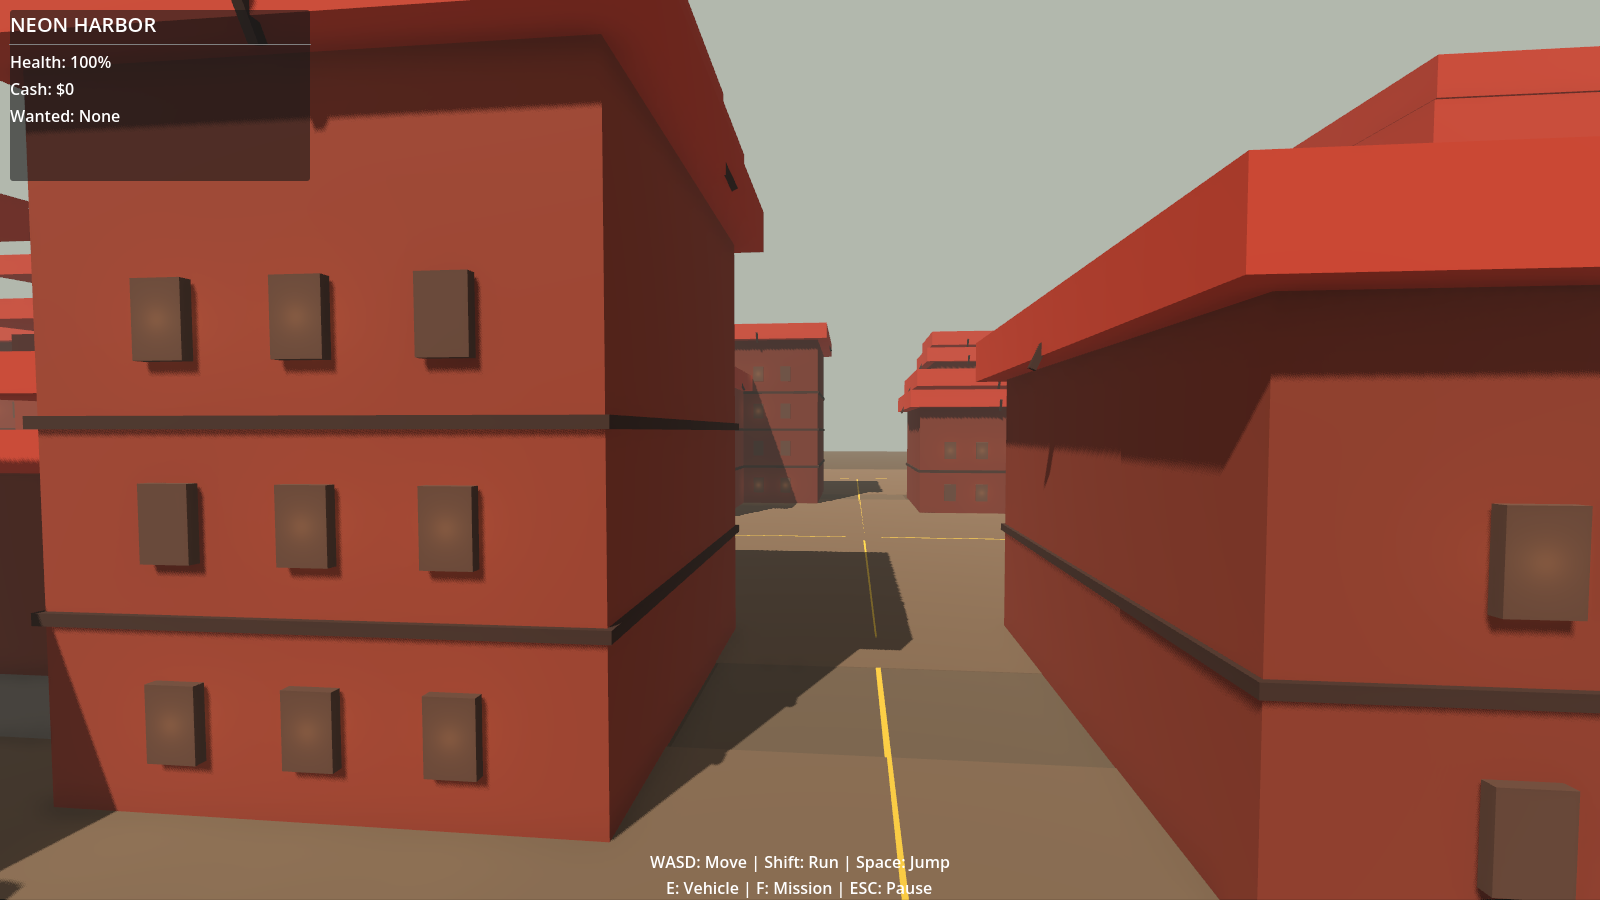
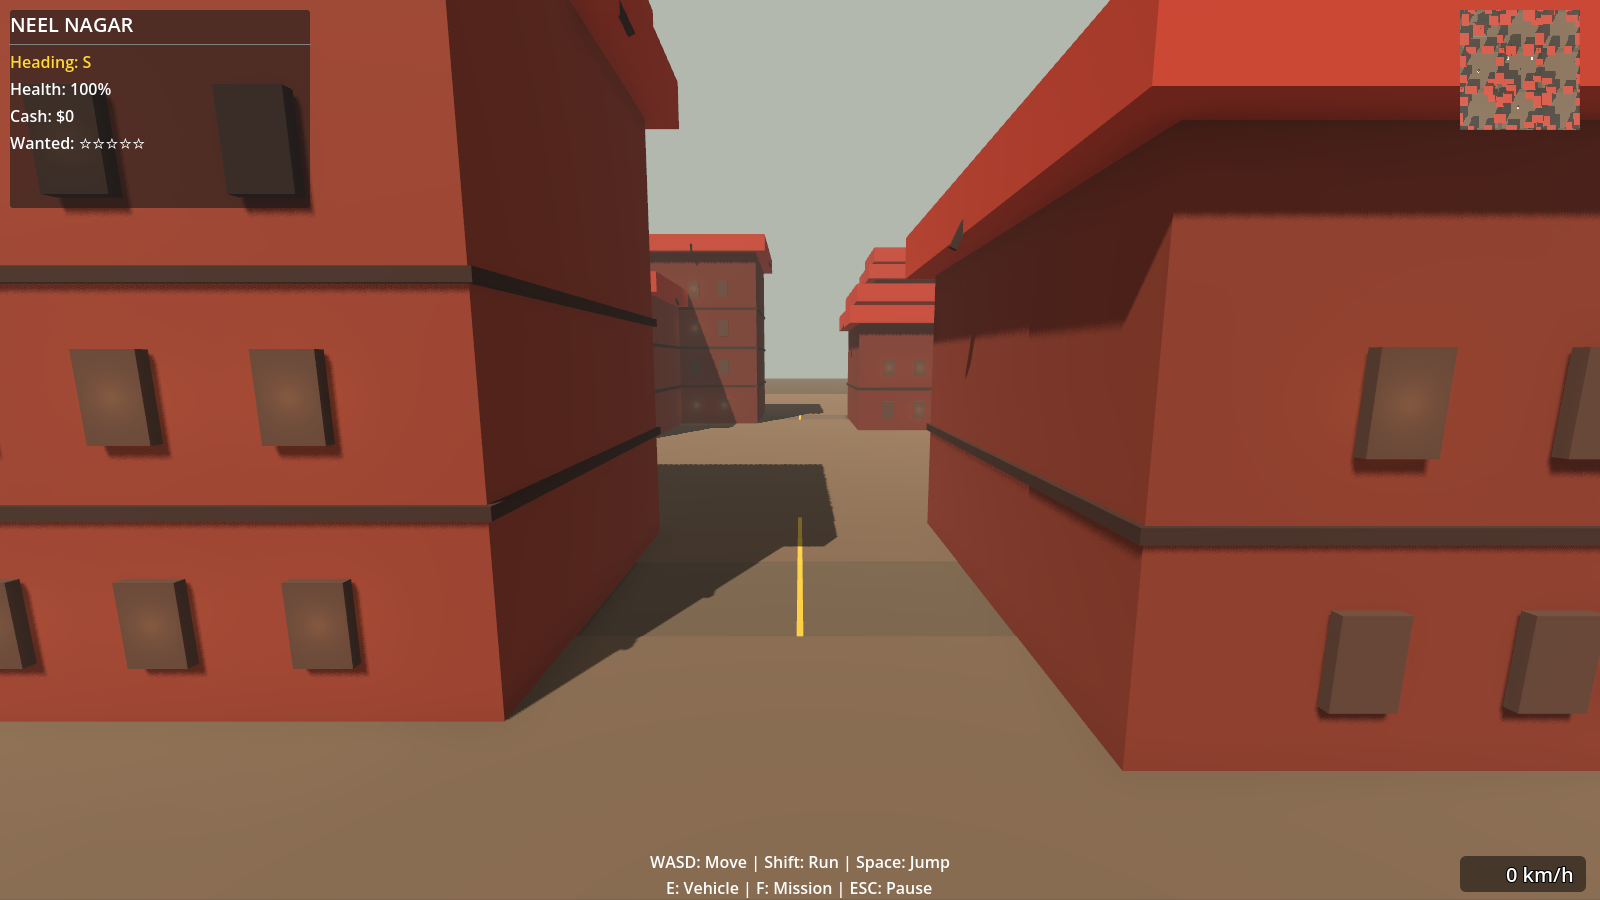
HUD polish: compass, speedometer, minimap, mission arrow
- Added compass heading readout in info panel
- Added speedometer (km/h) bottom-right, reads player/vehicle velocity
- Added top-down minimap SubViewport camera following the player
- Added mission objective arrow with live distance
- Wanted meter now shows 5-star format
- Enlarged info panel for the new rows
- QA hook saves to res://qa_shot.png via ProjectSettings path
- Renamed remaining NeonHarbor folder references in README

diff --git a/README.md b/README.md
@@ -44,13 +44,14 @@ Press **ENTER** or **Space** to start.
   pursuit AI (chase, circle, brake-check), alternating red/blue lights, and siren audio.
 - **Save system** — JSON persistence to `user://neel_nagar_save.json` with auto-save on
   mission completion. Saves player position, health, cash, and completed missions.
-- **HUD** — Health, cash, wanted stars, mission status, timer, and control hints.
+- **HUD** — Health, cash, 5-star wanted meter, compass heading, speedometer (km/h), live minimap
+  (top-down SubViewport camera following the player), mission arrow with distance, and control hints.
 - **Day/night lighting** — Directional sun with shadows, ambient light, fog, and glow.
 
 ## Architecture
 
 ```
-NeonHarbor/
+NeelNagar/
   project.godot              physics layers, input map, rendering config
   scenes/
     Main.tscn                root scene, attaches game.gd
